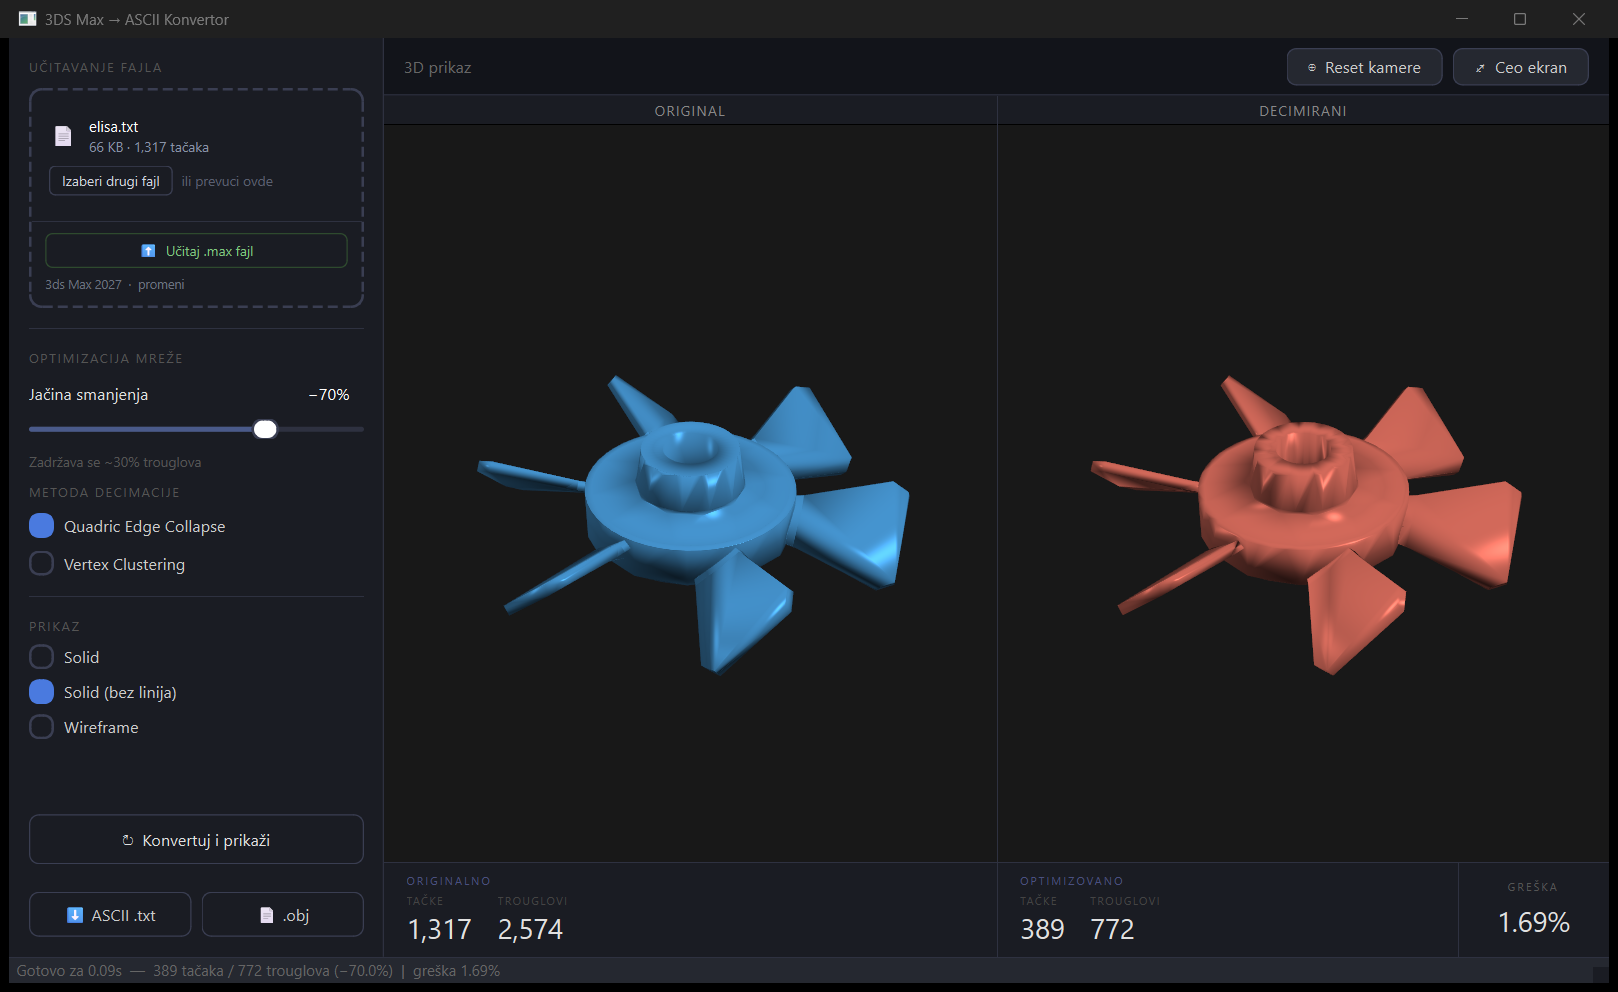
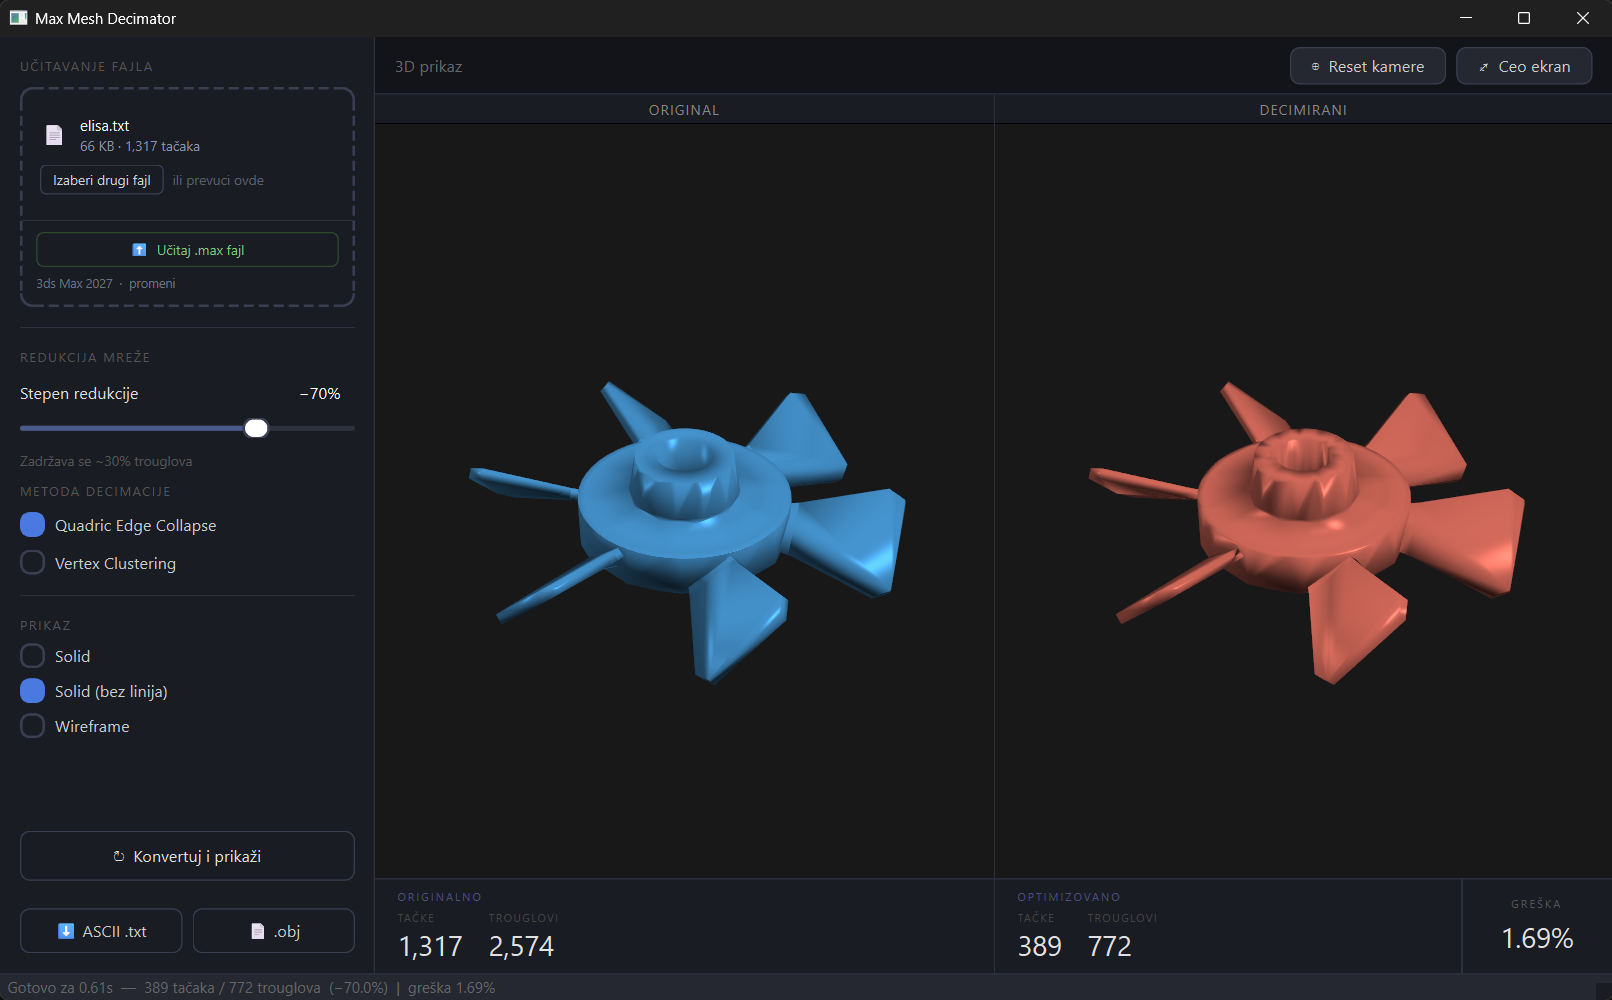
ui: rename mesh optimization section to mesh reduction, refresh screenshots

diff --git a/ui/main_window.py b/ui/main_window.py
@@ -498,11 +498,11 @@ class MainWindow(QMainWindow):
     def _section_optimization(self):
         w = QWidget(); w.setStyleSheet("background:transparent;")
         lv = QVBoxLayout(w); lv.setContentsMargins(0, 0, 0, 0); lv.setSpacing(10)
-        lv.addWidget(_section_label("OPTIMIZACIJA MREŽE"))
+        lv.addWidget(_section_label("REDUKCIJA MREŽE"))
 
         # Stilovi ovih labela su u styles.qss radi :disabled varijante.
         row = QHBoxLayout()
-        lbl = QLabel("Jačina smanjenja")
+        lbl = QLabel("Stepen redukcije")
         lbl.setObjectName("optLabel")
         self.lbl_ratio = QLabel("−70%")
         self.lbl_ratio.setObjectName("ratioPill")

diff --git a/docs/make_figures.py b/docs/make_figures.py
@@ -85,7 +85,7 @@ def panel(plotter, verts, faces, title, original=False, zoom=1.45):
 # ── figure ───────────────────────────────────────────────────────────────────
 
 def levels(mesh: Path, out_name: str, ratios=(1.0, 0.5, 0.3, 0.1)) -> None:
-    """Isti model kroz nekoliko jačina decimacije."""
+    """Isti model kroz nekoliko stepena redukcije."""
     v0, f0 = load_mesh(str(mesh))
     p = pv.Plotter(shape=(1, len(ratios)), window_size=(1680, 400),
                    off_screen=True, border=False)

diff --git a/README.md b/README.md
@@ -122,7 +122,7 @@ i izabrati ručno (izbor se pamti).
 
 1. Učitaj: prevuci `.txt` u zonu ili klikni za dijalog; za `.max` fajlove postoji dugme
    *Učitaj .max fajl*.
-2. Podesi: slajder je jačina smanjenja (5-95%), radio dugmad su metoda.
+2. Podesi: slajder je stepen redukcije (5-95%), radio dugmad su metoda.
 3. Pokreni: *Konvertuj i prikaži*.
 4. Pregledaj: original levo, decimirani desno.
 5. Sačuvaj: ASCII `.txt` (isti format kao ulaz) ili `.obj`.
